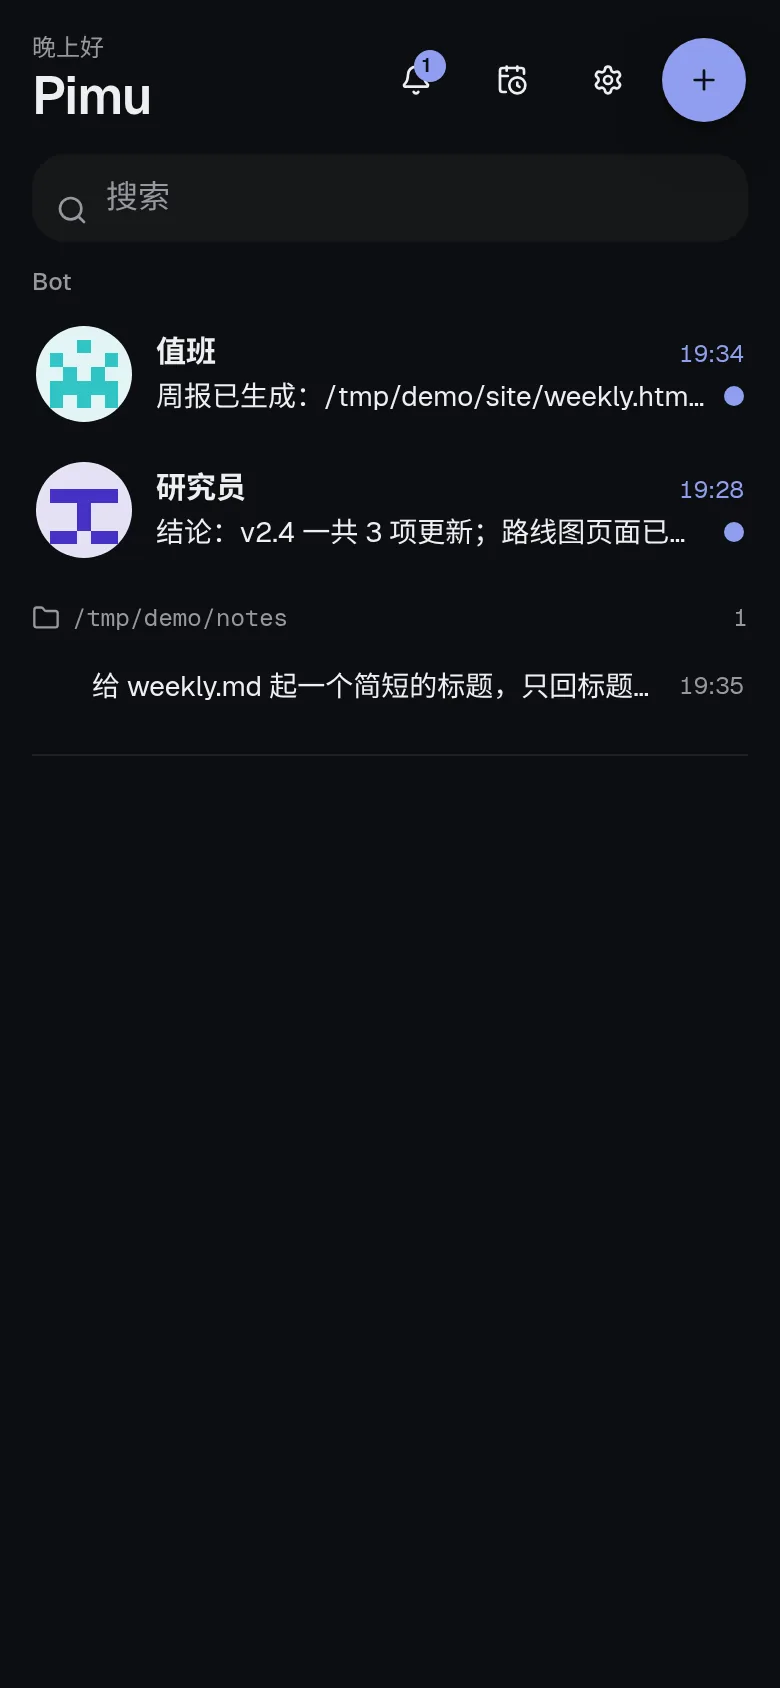
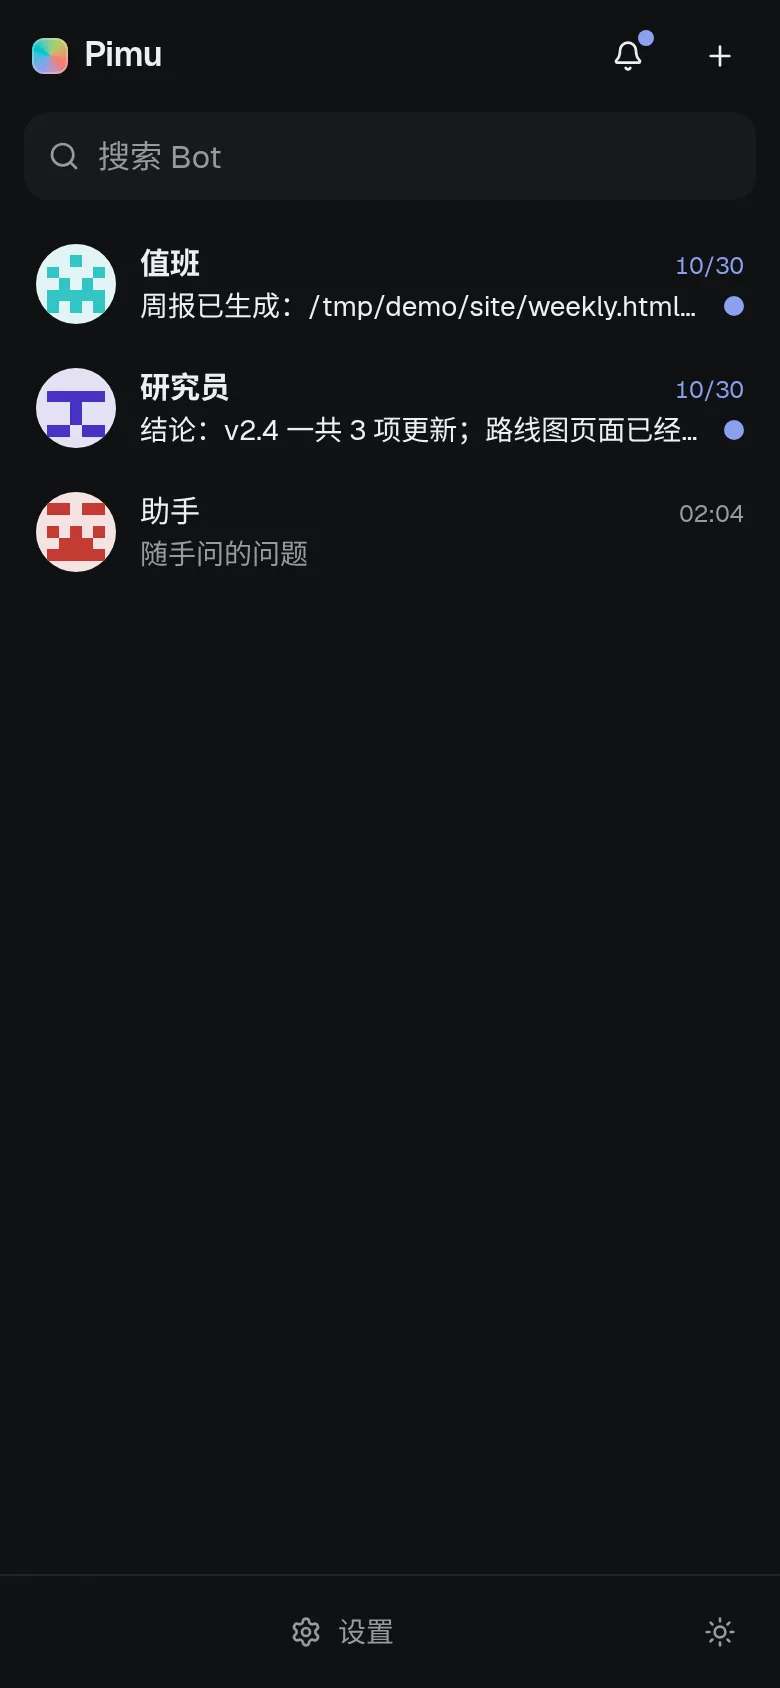
docs: V17 history, README screenshots without the sessions list

diff --git a/docs/HISTORY.md b/docs/HISTORY.md
@@ -189,6 +189,40 @@ The backend can be complex; the screen should not be. Everything advanced is opt
 - Bundle: main JS 284.96 → 284.73 kB (gzip 90.65 → 90.60), CSS 107.41 → 106.99 kB
   (gzip 18.92 → 18.88).
 
+## V17 Bots only
+
+- **Removed**: the Bot/会话 tabs and the sessions tab, directory grouping, the
+  新会话 quick-start, 设为 Bot / 取消 Bot (UI, `POST /api/bots {sessionId}` adopt,
+  `DELETE /api/bots/{id}`), `GET/POST /api/sessions`, `hub.Create`, the folder
+  button in the chat header and its CSS. `NewSessionDialog` became a plain
+  `DirPicker` used by the bot form.
+- **助手**: built-in bot `pm-assistant`, created on first start, cwd = first
+  `PIMU_WORKDIRS` entry; renamable, not archivable or deletable.
+- **新建 Bot** (`+`): name required, description, persona, working directory
+  (defaults to the last one used, 选择… opens the picker), identicon.
+- **Topics**: ⋯ → 新话题 or `/new` archives the current conversation and starts a
+  fresh pi session; 详情 → 历史 lists earlier topics (title + date), opens them
+  read-only, 继续这个话题 makes one current. The bot id stays the pi session id of
+  the current conversation (the header id is rewritten on switch), so tasks,
+  goals, jobs and approvals needed no change. `pi --session <path>` in 详情 → 高级.
+- **Migration**: one-time list `<data>/migrate-plain.json`; plain sessions are
+  copied into 助手's dir as history topics (ids and header cwd kept, so resuming
+  runs in the original folder), originals renamed `*.pimu-moved`; sessions held
+  by a terminal pi are retried every minute; job/task/heartbeat sessions and
+  later terminal sessions are left alone. Demo data: 4 plain sessions → 助手 历史,
+  2 old bot files moved into their bot dirs, 1 job session untouched, 0 pending.
+- **e2e**: 45 flows; new: 助手 + create bot + no sessions UI, 新话题 / `/new` /
+  历史 / read-only / resume, plain-session migration and resume in 助手. Old
+  session, set-as-bot and tabs flows removed.
+- **Bugs found**: a bot with no conversation file yet (right after 新话题)
+  returned 404 for its messages; the folder picker's first load could overwrite
+  a path typed quickly. (the e2e waits for it; the component is unchanged)
+- Code: frontend −176 lines net, Go +234 (topics, migration) + 122 test lines.
+  Bundle: JS 284.73 → 281.32 kB (gzip 90.60 → 89.67), CSS 106.99 → 105.24 kB
+  (gzip 18.88 → 18.59).
+- Trade-off: changing a bot's working directory applies from its next topic; an
+  existing conversation keeps the cwd recorded in its file.
+
 ## Open risks and not verified
 
 - Neither mode is an OS sandbox; pi runs as the local user. Same uid can read pi's

diff --git a/README.md b/README.md
@@ -10,7 +10,7 @@ a chat UI, long-lived bots, schedules, background jobs and approvals.
 Everything is a bot: a built-in **助手** takes ad-hoc questions.
 
 <p>
-  <img src="docs/screenshots/home-iphone-dark.webp" width="200" alt="Home on iPhone, dark">
+  <img src="docs/screenshots/home-iphone-dark.webp" width="200" alt="Bot list on iPhone, dark">
   <img src="docs/screenshots/chat-iphone-dark.webp" width="200" alt="Chat on iPhone with a job result">
   <img src="docs/screenshots/safety-mode-iphone-dark.webp" width="200" alt="Bot safety mode setting">
 </p>
@@ -42,9 +42,9 @@ Everything is a bot: a built-in **助手** takes ad-hoc questions.
 - **Settings over pi's files**: models, extensions, skills, MCP, `AGENTS.md`.
 - **Browser**: Playwright MCP steps and screenshots in the Activity tab.
 
-| Chat with tool steps | Inline approval (guarded) | Job card with approval counts |
+| Bot list, ⋯ → 新话题 | 详情 → 历史 | An earlier topic, read-only → 继续这个话题 |
 |---|---|---|
-| ![chat](docs/screenshots/chat-tools-desktop.webp) | ![approval](docs/screenshots/inline-approval-desktop.webp) | ![jobs](docs/screenshots/job-approval-counts-desktop.webp) |
+| ![topic menu](docs/screenshots/topic-menu-desktop.webp) | ![history](docs/screenshots/bot-history-desktop.webp) | ![topic](docs/screenshots/topic-readonly-desktop.webp) |
 
 ## Quick start
 
